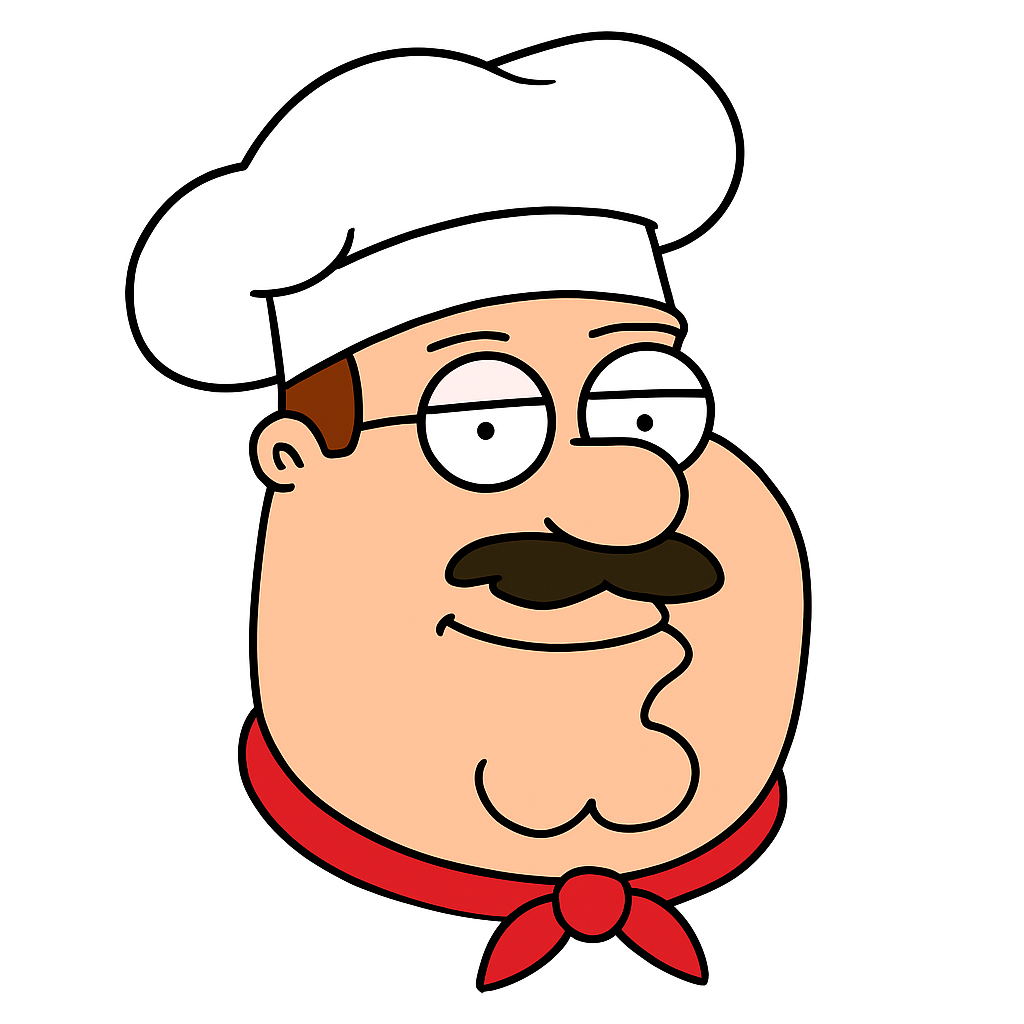
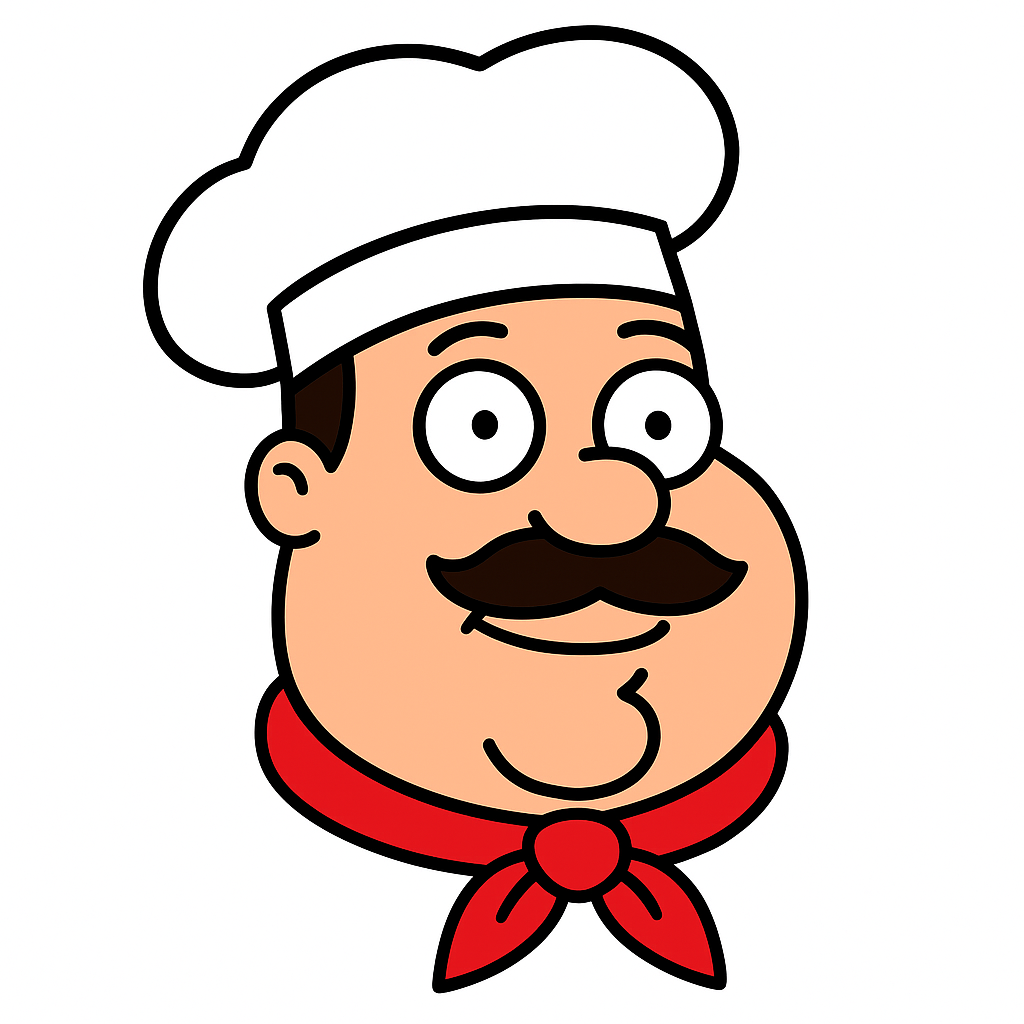
new db.js and new peter-img added

diff --git a/scripts/db.js b/scripts/db.js
@@ -1,44 +1,42 @@
 let products = [
   {
-    name: "Stewie’s Evil Delight",
+    name: "Pizza Diavola",
     price: 11.49,
-    description:
-      "Pikante Peperoni, scharfe Jalapeños und ein Hauch Ziegenkäse.",
+    description: "Scharfe Salami, Jalapeños, Peperoniwurst und Tomatensauce.",
   },
   {
-    name: "Quackmire’s Giggity Special",
+    name: "Pizza Salami Classico",
     price: 10.99,
-    description: "Würzig-scharfe Salami trifft auf doppelt Käse.",
+    description: "Würzige Salami auf Tomaten-Mozzarella-Basis – der Klassiker.",
   },
   {
-    name: "Lois’ Veggie Delight",
+    name: "Pizza Verdura",
     price: 9.99,
-    description:
-      "Frische Paprika, Champignons, Zwiebeln und Brokkoli auf Tomatensauce.",
+    description: "Paprika, Zwiebeln, Brokkoli und Champignons – alles frisch!",
   },
   {
-    name: "Clevelands BBQ Dream",
+    name: "Pizza BBQ Chicken",
     price: 11.49,
-    description: "Zarte Hähnchenstücke, rauchige BBQ-Soße und rote Zwiebeln.",
+    description: "Hähnchen, BBQ-Sauce, rote Zwiebeln und Cheddar.",
   },
   {
-    name: "Joe’s Power Pizza",
+    name: "Pizza American Style",
     price: 12.49,
-    description: "Extra viel Mozzarella, Bacon, Peperoni und Jalapeños.",
+    description: "Mozzarella, Bacon, Peperoni und Jalapeños auf dickem Teig.",
   },
   {
-    name: "Chris’ Cheesy Beast",
+    name: "Pizza Käse Deluxe",
     price: 10.99,
-    description: "Doppelt Käse, extra Teig, fette Salamischeiben.",
+    description: "Doppelt Käse, dicker Boden, würzige Salamischeiben.",
   },
   {
-    name: "Brian’s Truffle Temptation",
+    name: "Pizza Truffo",
     price: 12.99,
-    description: "Edle Trüffelcreme, Spinat, Mozzarella und schwarze Oliven.",
+    description: "Trüffelcreme, Spinat, schwarze Oliven und Mozzarella.",
   },
   {
-    name: "Meg’s Four Cheese Classic",
+    name: "Pizza Quattro Formaggi",
     price: 9.49,
-    description: "Mozzarella, Gouda, Gorgonzola und Parmesan.",
+    description: "Vier Käsesorten: Mozzarella, Gouda, Gorgonzola und Parmesan.",
   },
 ];

diff --git a/index.html b/index.html
@@ -1,5 +1,5 @@
 <!DOCTYPE html>
-<html lang="en">
+<html lang="de">
   <head>
     <meta charset="UTF-8" />
     <meta name="viewport" content="width=device-width, initial-scale=1.0" />
@@ -30,7 +30,7 @@
             <img class="pizza-1" src="./assets/img/pizza1.jpg" alt="" />
           </div>
           <div class="header-name">
-            <h3>Peter's Pizza Palace</h3>
+            <h3>Pablos's Pizza Palace</h3>
             <p>Bewertung (1,3 von 5 Sternen)</p>
           </div>
           <div class="round-img">
